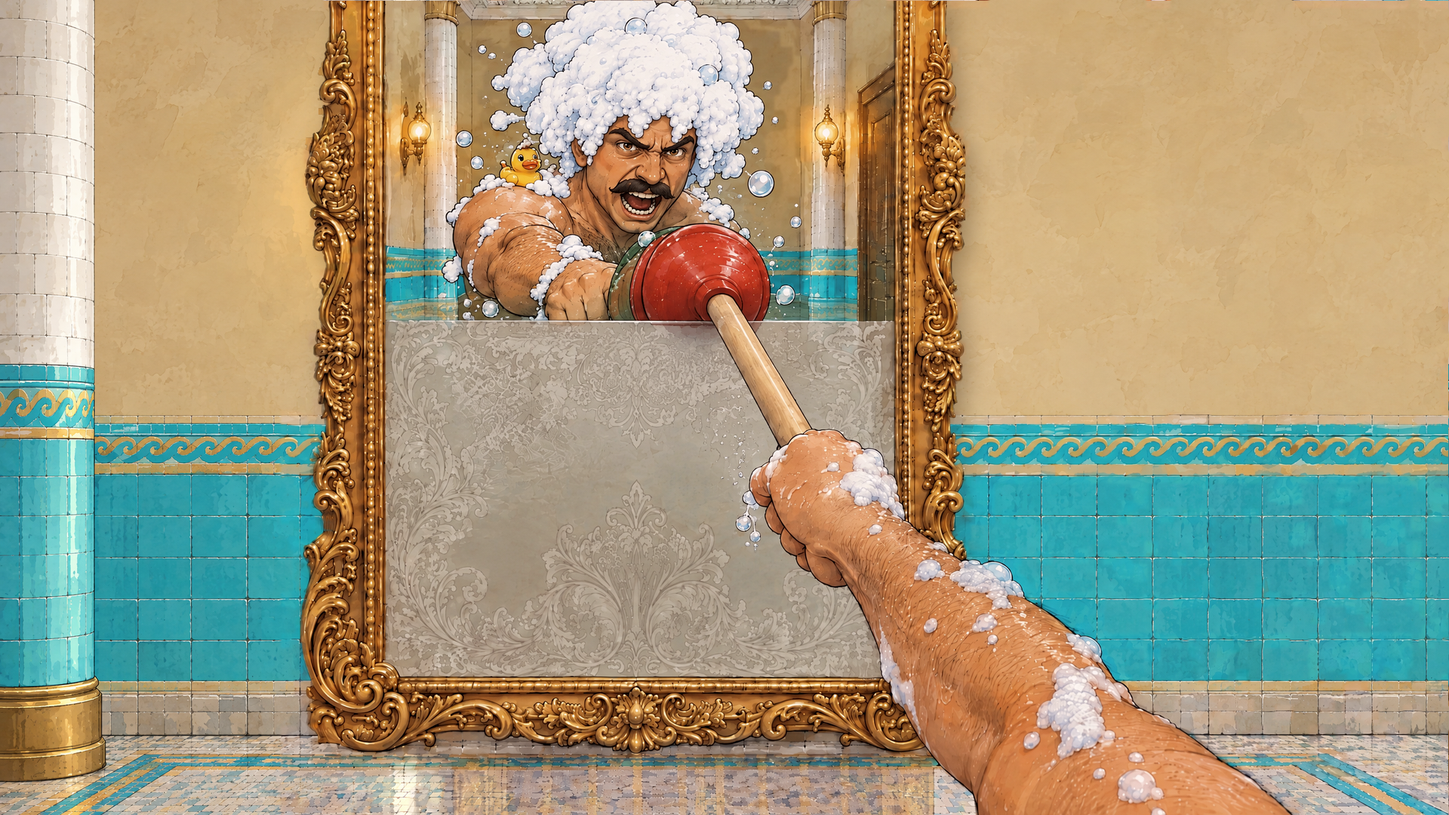
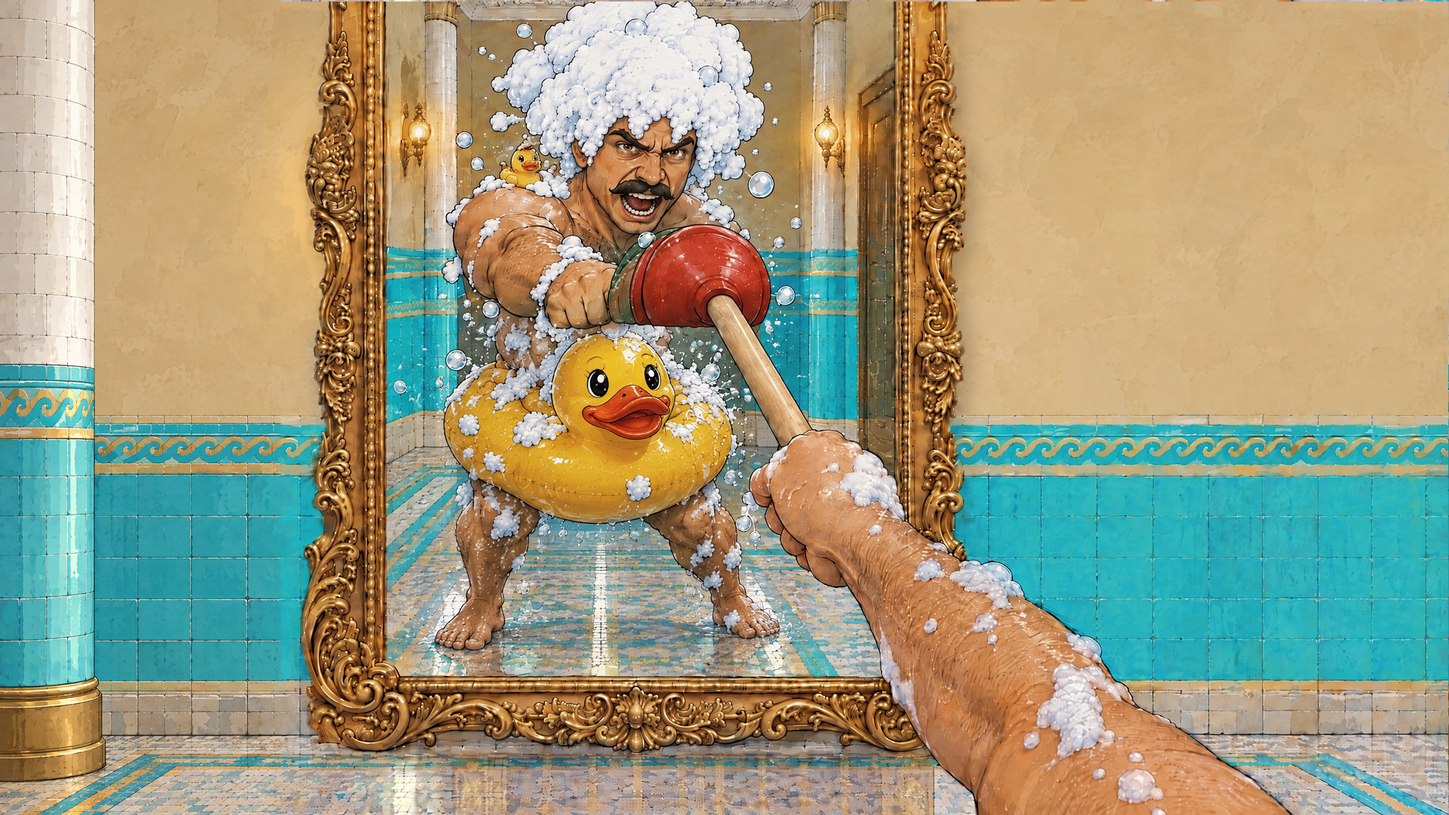
Зеркало прекраснодушия без матовой части, срам закрывает резиновая уточка (решение автора)
- кандидаты mirror_clear_1011: st_z11_mirror (во весь рост, уточка), st_z11_hand_plunger (выпад, уточка), st_z11_mirror_aside, st_w4_mirror, st_w4_mirror_aside; рамы и наклейки — из прежних слоёв
- спека: строки зеркала, решение №7 пересмотрено, заметка §13; статус, README, лист sheet_1011_mirror_duck.png

Claude-Session: https://claude.ai/code/session_01KtQKgqP4XoDbZ9H4UhrjXu

diff --git a/docs/BJ3_ASSET_SPEC.md b/docs/BJ3_ASSET_SPEC.md
@@ -206,8 +206,8 @@
 
 | Файл | Что на кадре-варианте | Когда |
 |---|---|---|
-| `st_w4_mirror.png` | «Зеркало прекраснодушия» в золочёной пластиковой раме висит на крюках и целиком закрывает решётку, пост и плиту с трафаретом; под ним виден латунный порожек; на раме табличка «Улыбнитесь себе» и наклейка «Не трогать — элемент дизайна» (генератор, побуквенная сверка). Маска вырезки накрывает решётку, трафарет и свет лампы поста | ¬`mirror_removed` |
-| `st_w4_mirror_aside.png` | то же зеркало стоит у стены рядом с решёткой, лицом в зал | `mirror_removed` |
+| `st_w4_mirror.png` | «Зеркало прекраснодушия» в золочёной пластиковой раме висит на крюках и целиком закрывает решётку, пост и плиту с трафаретом; под ним виден латунный порожек; на раме табличка «Улыбнитесь себе» и наклейка «Не трогать — элемент дизайна» (генератор, побуквенная сверка); стекло отражает зал целиком, матовой части нет (решение автора 11.10.2026). Маска вырезки накрывает решётку, трафарет и свет лампы поста | ¬`mirror_removed` |
+| `st_w4_mirror_aside.png` | то же зеркало стоит у стены рядом с решёткой, лицом в зал; стекло везде отражает, матовой части нет (решение автора 11.10.2026) | `mirror_removed` |
 | `st_w4_cabin_full.png` | решётка закрыта; за ней — та же кабина, что в `st_w4_cabin_empty` (нарисована от неё), забитая «дизайном»: пластиковая пальма в синем горшке, столбики с канатом, бежевые банки, запасная табличка, на всём белые наклейки; на полу среди вещей — широкая доска без наклейки с меловым «НАШЕ» (решение автора 09.10.2026, трап P10′); рубильник на задней стенке виден за вещами. Всё содержимое видно сразу, как сняли зеркало (замечание автора 08.10.2026) | `mirror_removed` ∧ ¬`cabin_free` |
 | `st_w4_cabin_empty.png` | **решётка открыта** (сложена к левому краю рамы — её открыли, чтобы вынести вещи, и она остаётся открытой, замечание автора 08.10.2026); кабина пуста, тёплый свет плафона, на задней стенке кабины — серая коробка рубильника с рычагом («380В», мел — в зуме Z11); доска «НАШЕ» — отдельными состояниями | `junk_out` ∧ ¬`descended_as_staff`, кроме промежутка между кадрами `SEQ.test.send` и `SEQ.test.call` и кадра `SEQ.send.alone` |
 | `st_w4_ramp.png` | поверх `st_w4_cabin_empty`: широкая доска с меловым «НАШЕ» лежит трапом через латунный порожек в кабину | `ramp_set` |
@@ -334,7 +334,7 @@
 | `st_z10_tube_open.png` | тубус открыт, восковка торчит наружу | `shown(Z10.tube.open)` ∨ `photo_seen` |
 | `st_z10_photo.png` | на столе фотография лицевой стороной вверх | `photo_seen` |
 | `st_z10_bottle.png` | на стойке у люка — бутылка воды «Каскадъ» | ¬`offering_on_trolley` |
-| `st_z11_mirror.png` | «Зеркало прекраснодушия» на крюках закрывает решётку, пост и трафарет; в верхней части отражение — голый мыльный Лапидус **до груди** в пенной «шапке»; нижние 45 % зеркала — матовый декоративный орнамент, не отражают; табличка и наклейка на раме чистые | ¬`mirror_removed` |
+| `st_z11_mirror.png` | «Зеркало прекраснодушия» на крюках закрывает решётку, пост и трафарет; зеркало крупное (шире двери, верх рамы за кадром); стекло отражает целиком, **без матовой части** (решение автора 11.10.2026): голый мыльный Лапидус во весь рост в пенной «шапке», с маленькой уточкой на плече; всё ниже пояса до колен закрывает большая резиновая уточка; табличка и наклейка на раме чистые | ¬`mirror_removed` |
 | `st_z11_mirror_aside.png` | зеркало стоит у стены сбоку, решётка и пост открыты | `mirror_removed` |
 | `st_z11_cabin_full.png` | за решёткой кабина, забитая «дизайном»; на полу среди вещей широкая доска с меловым «НАШЕ»; в глубине рубильник на серой коробке с меловыми каракулями (поле под текст) | `mirror_removed` ∧ ¬`junk_out` |
 | `st_z11_cabin_empty.png` | пустая кабина, рубильник с мелом; латунный порожек у решётки виден целиком | `junk_out` ∧ ¬`descended_as_staff`, кроме промежутка между кадрами `SEQ.test.send` и `SEQ.test.call` и кадра `SEQ.send.alone` |
@@ -342,7 +342,7 @@
 | `st_z11_ramp.png` | поверх `st_z11_cabin_empty`: доска «НАШЕ» положена трапом через латунный порожек, мел кверху | `ramp_set` |
 | `st_z11_trolley_stuck.png` | поверх `st_z11_cabin_empty`: тележка перед кабиной, передние колёса упёрлись в латунный порожек | кадр `Z11.cabin.trolley.step` |
 | `st_z11_lamp_off.png` | лампа поста погасла | кадр `Z11.switch.use` |
-| `st_z11_hand_plunger.png` | поверх `st_z11_mirror`: мыльная рука прижимает вантуз к стеклу, к отражению | кадр `Z11.mirror.plunger` |
+| `st_z11_hand_plunger.png` | поверх `st_z11_mirror`: большая мыльная рука снизу справа прижимает вантуз к стеклу; отражение — Лапидус в выпаде, лицо янычара в атаке (боевой клич), его вантуз встречает настоящий чашка в чашку на стекле, всё отражённое — за стеклом; большая уточка в отражении закрывает от пояса до колен (решения автора 11.10.2026) | кадр `Z11.mirror.plunger` |
 | `st_z11_trolley_water.png` | в кабине тележка с бутылкой «Каскадъ» и завтраком, решётка закрыта | кадр `SEQ.test.send` |
 | `st_z11_trolley_returned.png` | кабина вернулась: на бутылке мокрый лучистый оттиск и записка, под бутылкой лист, на подносе оттиск | кадр `SEQ.test.call` |
 | `st_z11_trolley_marked.png` | кабина вернулась с пустой тележкой: на столешнице влагостойкий листок с оттиском (отметка — текст движка) | кадр `SEQ.send.alone` |
@@ -886,7 +886,7 @@
 4. Изольда — по прототипу автора, 45 лет; прототип согласен (решение автора по №4а). Кухтулху — автор ещё думает, §5.3 остаётся предложением.
 5. Музыка — состав §9.3 утверждён; звуки интерфейса и курсоры BJ2 — берём, скопированы (§9.5, §10).
 6. Шрифты — **да** (§8).
-7. Отражение в зеркале Z11 до груди, низ матовый — **да**.
+7. Отражение в зеркале Z11 до груди, низ матовый — **да**. *Пересмотрено автором 11.10.2026:* матовой части нет, отражение во весь рост, срам закрывает резиновая уточка.
 8. Логотип — **как в BJ2**: «Латунный янычар», под ним «Гидроудар» (§10).
 9. За окном номера — **стена отеля** (двор-колодец, §2.1).
 10. Счёт иконок — автор не знает; **берём 9 по GDD §6**.
@@ -905,6 +905,8 @@
 19. **Визуальные гэги задним числом** (07.10.2026): `room_w1` (голубь на кондиционере, утёнок в душе, паутина), `zoom_z02` (моль из мини-бара, узел на шнуре), `zoom_z03` (муха на колпаке, помада на чашке, кривая звезда) приняты, прежние — `work/orig_gfx/`; портреты Изольды — карандаш в причёске и серьга-звёздочка, Лапидуса — резиновый утёнок на плече; Предок не трогаем.
 
 **Решения автора 08–09.10.2026 (план правок `review/PUZZLE_FIX_PLAN.md`), новые состояния в спеке:** наклейка «элемент дизайна» на ручке вантуза (`st_z01_plunger`); ширма каскада `st_w2_cascade_on` и показ в открытии Акта II (`OPEN.demo`); бирка «Экспонат № 1» (`st_z05_tag`, `st_z05_tag_folded`, носитель `tag_exhibit`); меловое «НАШЕ» на раме доски (базы W4 и Z09); доска-трап (`st_w4_ramp`, `st_w4_design_board`, `st_z11_board_floor`, `st_z11_ramp`, кадр ошибки `st_z11_trolley_stuck`); частичная приёмка (`st_z11_trolley_marked`, `st_w4_tt_marked`, `st_w5_mark`, `DOC.partial_mark`); звуки `sfx_tag_fold`, `sfx_wheel_bump`, `sfx_board_lay`. Условия состояний — по графам ред. 3 (`junk_out`, `ramp_set`, `ramp_thrown`, `cascade_on`, `meter_reading_seen`, `payment_sent_alone`, `trolley_marked_partial`).
+
+**Решения автора 11.10.2026 — зеркало прекраснодушия:** матовой нижней части нет ни в одном кадре (`st_w4_mirror`, `st_w4_mirror_aside`, `st_z11_mirror`, `st_z11_mirror_aside`); в Z11 Лапидус отражается во весь рост, ниже пояса его закрывает резиновая уточка; кадр вантуза — большая рука, отражение в выпаде янычара. Пересматривает решение 06.10.2026 №7. Текст `Z11.mirror.look` (Акт II, «ниже матовый узор») — к правке.
 
 **Решение автора 11.10.2026 — пост лифта:** лампа и две кнопки, верхняя «Вызов», нижняя «Вниз» (`zoom_z11`; пост на `room_w4.png` поправлен вклейкой — было: одна кнопка, подписи наоборот).
 

diff --git a/PROJECT_STATUS_HYDROUDAR.md b/PROJECT_STATUS_HYDROUDAR.md
@@ -4,7 +4,7 @@
 
 ## Точка входа для новой сессии
 
-- ★★★ **11.10.2026 — `zoom_z11` принят** (решение автора «согласен»): пост лифта по спеке — лампа, «Вызов» сверху, «Вниз» снизу; пост на `room_w4.png` поправлен вклейкой (прежняя база — `work/orig_gfx/`). **На приёмке:** 14 состояний `st_z11_*` — лист `work/higgsfield/sheet_1011_z11_states.png` (12 кадров слотов), кандидаты и параметры — `work/higgsfield/candidates/z11_1010/README.md`.
+- ★★★ **11.10.2026 — `zoom_z11` принят** (решение автора «согласен»): пост лифта по спеке — лампа, «Вызов» сверху, «Вниз» снизу; пост на `room_w4.png` поправлен вклейкой (прежняя база — `work/orig_gfx/`). **На приёмке:** 14 состояний `st_z11_*` — лист `work/higgsfield/sheet_1011_z11_states.png` (12 кадров слотов), кандидаты и параметры — `work/higgsfield/candidates/z11_1010/README.md`. **Замечания автора по Z11 (11.10.2026):** гигантские руки — на кнопках рука в настоящем масштабе (принята), вантуз — большая рука, отражение-янычар в атаке; **зеркало без матовой части, срам закрывает резиновая уточка** — и в Z11, и в W4 (`work/higgsfield/candidates/mirror_clear_1011/`, спека §13). **Ждёт автора:** лист `sheet_1011_mirror_duck.png`; текст `Z11.mirror.look` (Акт II, «ниже матовый узор») и реплика предка в `Z11.mirror.plunger` — варианты предложены автору.
 - ★★★ **10.10.2026, поздний вечер — тележка в W2/W4/W5 принята.** Автор выбрал «вариант на петлях» для W1 — всё по тележке Z03/W1 в `assets/`. Кандидаты `st_w2_trolley`, `st_w4_trolley_hall`, `st_w5_trolley` (переделан по замечанию автора: пластина та же, что в Z03 — маленькая горизонтальная на задней поперечине, шторка отодвинута слева; слой обрезан по контуру, чтобы не закрывать щупальца `st_w5_kuh`; лист `sheet_1010_w5_trolley_fix.png`) — `work/higgsfield/candidates/cutouts_1010/README.md`, лист `work/higgsfield/sheet_1010_trolley_w2_w4_w5.png`. **Решение автора:** в W4 тележка справа от стойки «Наследие» (у лифта в Акте III зеркало, вход на лестницу и куча «дизайна») — спека поправлена, `zoom_z10` рисуется без тележки (она за правым краем). По замечаниям автора в `st_w5_trolley` пластина как в Z03 и цвет тележки выровнен по Z03/W1 (`sheet_1010_trolley_colors.png`). **Принято автором («да»):** `st_w2_trolley`, `st_w4_trolley_hall`, `st_w5_trolley` — в `assets/`. **Принято автором:** предметы на столешнице — `st_w2_tt_key/_mug/_payment`, `st_w4_tt_water/_returned/_payment/_marked` (лист `sheet_1010_trolley_items.png`; счёт в W4 переделан — висел над бортиком); оттиск Кухтулху везде — красное «солнце» по `st_w5_mark`, на пластине `st_w5_trolley` тоже. Дальше — тележка в Z11 (`st_z11_trolley_*`), затем остаток пакета 2.
 - ★★★ **10.10.2026, вечер — тележка Z03 и W1 принята целиком.** Автор принял новую `zoom_z03` (звёзды в ряд вдоль переднего борта) и все состояния: `st_z03_stars_folded`, `st_z03_skirt_open` (вариант А — шторка вправо), `st_z03_juice_empty`, `st_z03_skirt_open_folded` (новое: слои шторки и звёзд не складываются; спека — графика 263), `st_w1_trolley`, `st_w1_trolley_folded` («вариант на петлях», как в Z03), `st_w1_juice_empty` (годится поверх обеих тележек). Всё в `assets/`, кадры-варианты — `work/higgsfield/variants/`, `accept` в журнале, параметры — `work/higgsfield/candidates/cutouts_1010/README.md`. Прежние `st_w1_*` (звёзды по углам) удалены. **Дальше:** тележка в W2/W4/W5 (`st_w2_trolley`, `st_w4_trolley_hall`, `st_w4_tt_*`, `st_w5_trolley`), затем остаток пакета 2 — Z01, Z04–Z12, состояния W2/W3/W4.
 - ★★★ **10.10.2026 — автор подтвердил правленые реплики тележки; шутка про хлам — дословно.** Строка автора «Вы хотите спросить, где голый мужчина прячет столько хлама? Не спрашивайте.» — в `Z04.map.take` (Акт II, третьей репликой после Изольды; `texts/AUTHOR_LINES.json`, ТЗ II), единственное осознанное исключение из запрета на четвёртую стену (`texts/STYLE_AUTHOR.md`). Итог Акта II и слой пересобраны; check_texts 0/0 ×4, тесты 146 OK. **Дальше — арт тележки:** новая `zoom_z03` (звёзды по углам горизонтально, юбка-шторка с кармашками), затем `st_z03_*`, `st_w1_trolley*`, тележка в W2/W4/W5.

diff --git a/work/higgsfield/candidates/mirror_clear_1011/README.md b/work/higgsfield/candidates/mirror_clear_1011/README.md
@@ -1,0 +1,15 @@
+# Кандидаты 11.10.2026: зеркало прекраснодушия без матовой части (решение автора)
+
+Автор 11.10.2026: «у зеркала не будет матовой поверхности, а зону 18+ будет закрывать резиновая уточка». Лист `work/higgsfield/sheet_1011_mirror_duck.png`. Слои здесь заменяют одноимённые: Z11 — кандидатов `../z11_1010/` (ещё не приняты), W4 — уже принятые в `assets/` (после «да» — подмена файлов, прежние в `work/orig_gfx/cutouts/`).
+
+Метод для всех, кроме вантуза: генератор перерисовал только стекло; из кадра-варианта взят лишь участок стекла (`cutout.py` по разнице со склейкой «база + прежний слой», порог 8–12, растушёвка 2), рама, табличка и наклейка — из прежнего слоя (наклейки вклеены обратно по многоугольнику), альфа слоя — прежняя.
+
+| Слой | Кадр-вариант (job) | Участок стекла |
+|---|---|---|
+| `st_z11_mirror` | b80fae6a (по образцу уточки fcdf0850): во весь рост, большая уточка от пояса до колен | `--box 490,0,1200,905 --thresh 8` |
+| `st_z11_hand_plunger` | fcdf0850 (от 31da4772): выпад во весь рост, уточка | от склейки с новым зеркалом нет — вырезан по склейке с прежним `st_z11_mirror` (`--box 380,0,1920,1080 --thresh 22 --open 3 --close 21 --align 6 --grow 8 --feather 3 --base-name zoom_z11.png`), слой целиком перекрывает стекло |
+| `st_z11_mirror_aside` | aebd2007 | `--box 1300,300,1690,990 --thresh 12`, наклейка 1585–1631 × 880–912 |
+| `st_w4_mirror` | 46ab74de от склейки room_w4 + st_w4_mirror (d31d3c08) | `--box 110,380,470,720 --thresh 12`, наклейка «Не трогать — элемент дизайна» — многоугольник (340,602)(408,584)(410,618)(344,639) |
+| `st_w4_mirror_aside` | ef4ecbde от склейки (0cc70a35) | `--box 425,360,585,650 --thresh 12` |
+
+Отклонены: 1c305a69, 4b2b2dce — отказ фильтра генератора (слово «голый» и подробности); e877efe0 — уточка-круг, а пол в воде.
